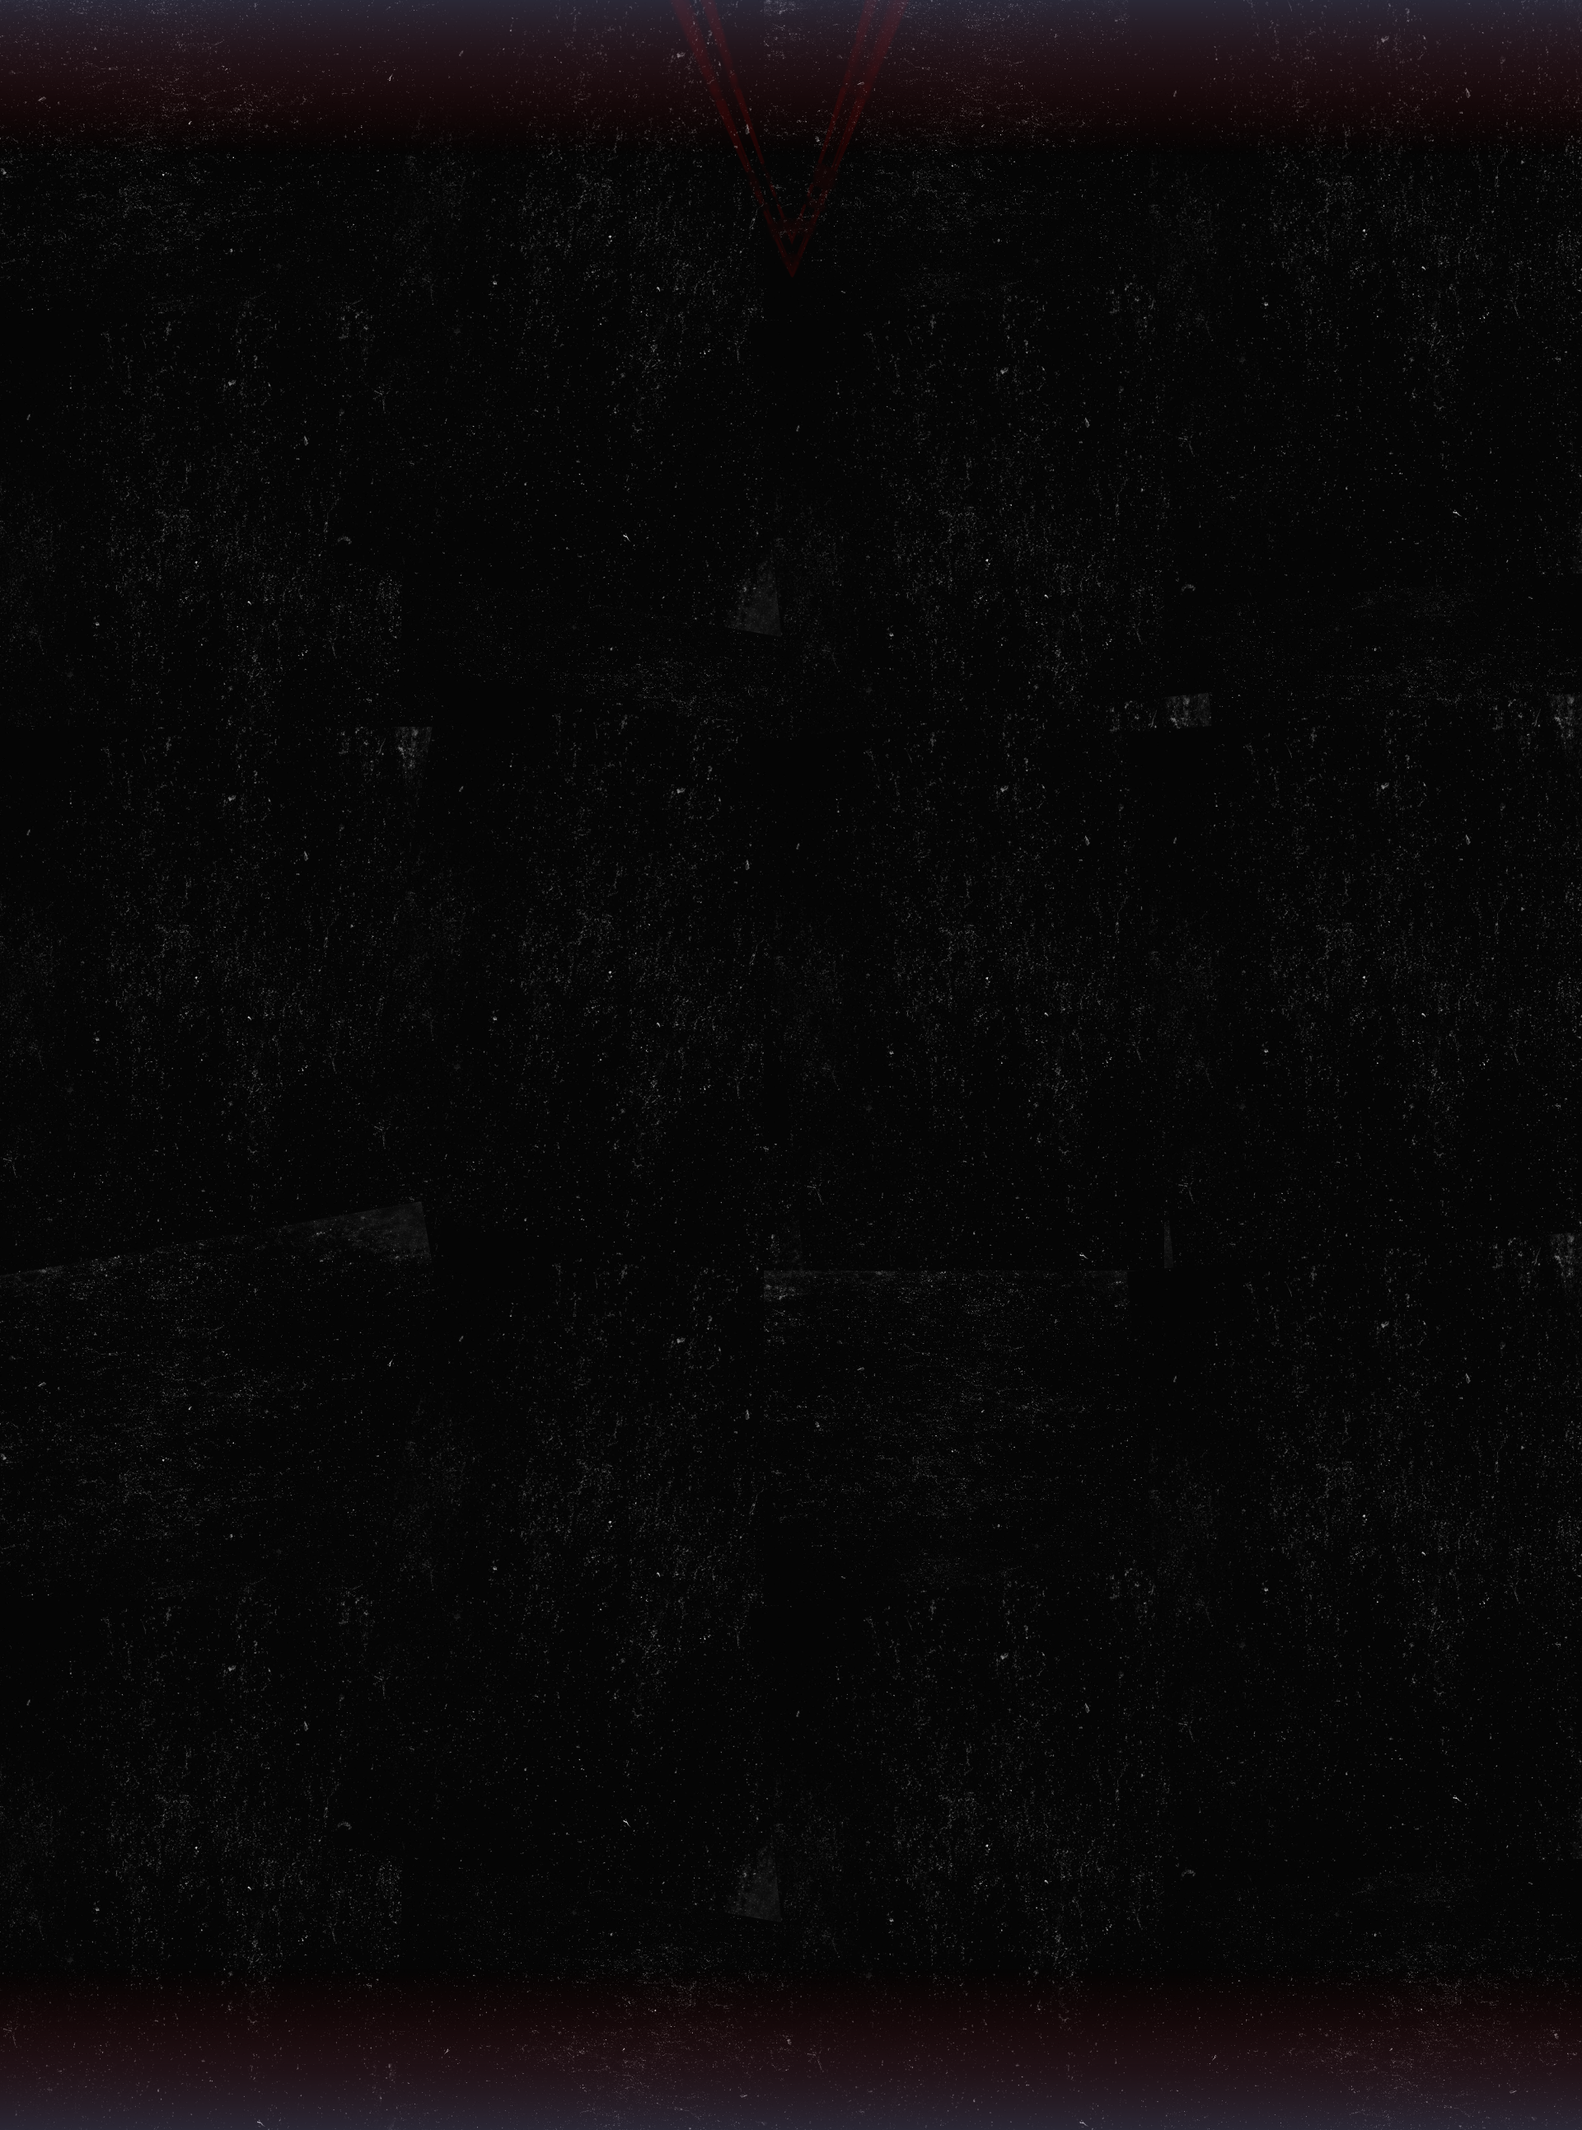
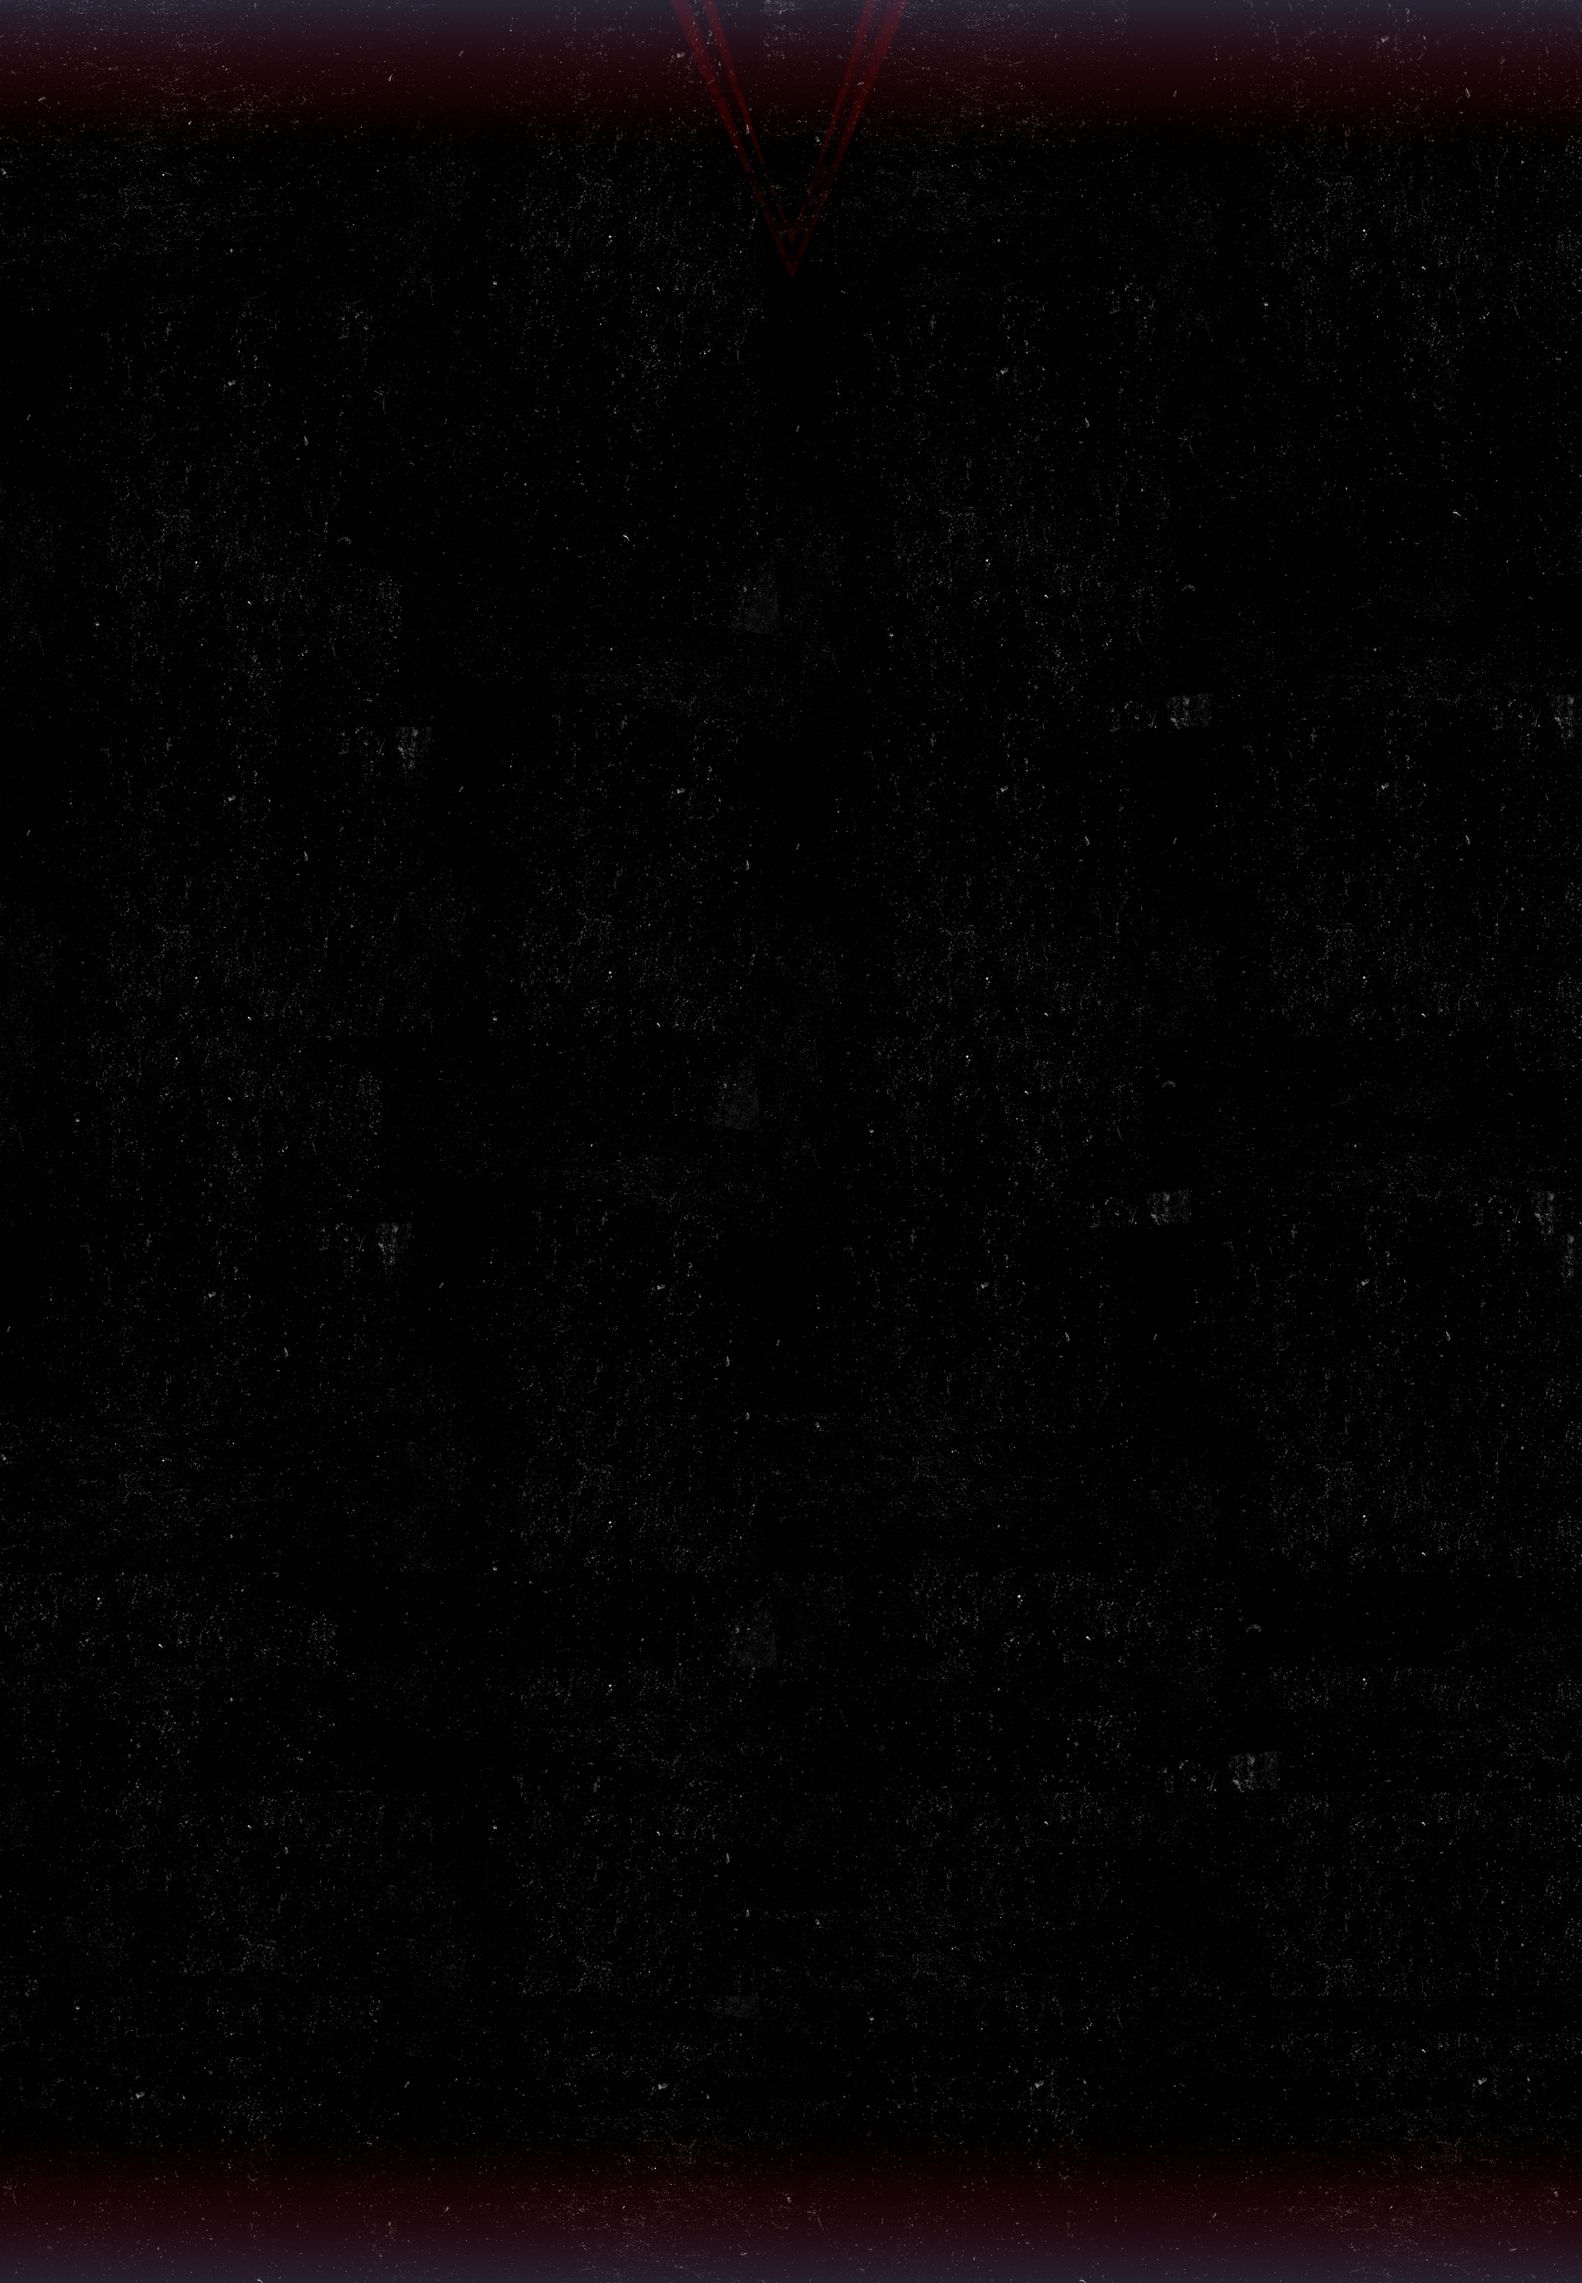
done

diff --git a/balletbornene.html b/balletbornene.html
@@ -4,7 +4,7 @@
     <meta charset="UTF-8">
     <meta http-equiv="X-UA-Compatible" content="IE=edge">
     <meta name="viewport" content="width=device-width, initial-scale=1.0">
-    <link rel="stylesheet" href="nemskat.css">
+    <link rel="stylesheet" href="balletbornene.css">
     <link rel="icon" type="image/png" href="img/logoh.png">
     <style>
         @import url('https://fonts.googleapis.com/css2?family=Bebas+Neue&family=Livvic:wght@100&display=swap');
@@ -19,69 +19,55 @@
     <section class="toptext">
         <img class="blines" src="img/blines.png" alt="Red Lines">
         <img class="largelines"src="img/largelines.png" alt="Red Lines Large">
-        <h1 class="h1top">"nemskat"</h1>
+        <h1 class="h1top">"ballet børnene"</h1>
     </section> 
-    <img class="websitepic"src="img/nemskat.png" alt="website picture" width="300" height="180">
+    <img class="websitepic"src="img/balletbørnene.png" alt="website picture" width="300" height="180">
     <section class="webcontent">
         <a class="linketosite" a href="https://www.facebook.com/MtildetAtildetRtildetTtildetItildetN/" >click to enter site</a>
     </section>
     <section class="textbox">
         <p class="p1">
-            A website/app which me and
-            another guy designed
-            in an innovation competition.
-            <br>
-            We won 2 prices for:
-            <br>
-            <br>
-            1# best prototype
-            <br>
-            2# classmates price for best idea
-        </p>
-        <img class="cline1"src="img/contentline.png" alt="red line">
-        <p class="p2">
             IDEA:
             <br>
             <br>
-            The site is called "NemSkat" which 
-            translates to "EasyTaxes".
-            <br>
-            <br>        
-            The idea was to make an automatic 
-            accounting system on an App for your phone.
-            This app was to help you
-            correct your preliminary income assessment.
+            the site was for a fictional
+            ballet dance school for kids with 
+            ADHD. 
             <br>
             <br>
-            The way to do this was to have an automatic 
-            system driven by an algorithm.
-            This algorithm uses photos of your monthly job payment
-            letters and with this easy obtainable data the app 
-            will help you make sure that you're filling out the 
-            correct data, so you can avoid having to 
-            pay outstanding taxes.
+            Our goal was to create a 
+            site that felt relaxed and
+            gender neautral and was
+            easy to navigate, with big buttons and
+            large headings - clear messages.
+            <br>
+            <br>
+            With the neutral colors we aimed to
+            attract both girls as well as boys for 
+            our dancing classes.
         </p>
-        <img class="cline2"src="img/contentline.png" alt="red line">
-        <p class="p3">
+        <img class="cline1"src="img/contentline.png" alt="red line">
+        <p class="p2">
             PROCESS:
             <br>
             <br>
-            Xd were used to make a wireframe of the website layout.
-            <br>
-            <br>
+            Xd were used to make a wireframes of the website layout
+            for both mobile and pc.
+            <br>           
+            <br>           
             After that we made a moodboard containing the
             colors, fonts and the overall theme and feeling.
-            <br>
-            <br>
-            Xd were then again used to make a mockup of the
-            Mobile App and of the website promoting the app.
-            <br>
-            <br>
+            <br>           
+            <br>            
+            Xd were then again used to make a prototype of the
+            website.
+            <br>           
+            <br>           
             We used design process to have a structured idea
             all the way through the assignment with usability
             tests and experimentations being done frequently.
         </p>
-        <img class="xdpic"src="img/xdns.png" alt="xd process img" width="300" height="230">
+        <img class="xdpic"src="img/xdbb.png" alt="xd process img" width="300" height="230">
     </section>
 
 </body>

diff --git a/hotelsbeyond.html b/hotelsbeyond.html
@@ -1,0 +1,73 @@
+<!DOCTYPE html>
+<html lang="en">
+<head>
+    <meta charset="UTF-8">
+    <meta http-equiv="X-UA-Compatible" content="IE=edge">
+    <meta name="viewport" content="width=device-width, initial-scale=1.0">
+    <link rel="stylesheet" href="hotelsbeyond.css">
+    <link rel="icon" type="image/png" href="img/logoh.png">
+    <style>
+        @import url('https://fonts.googleapis.com/css2?family=Bebas+Neue&family=Livvic:wght@100&display=swap');
+        @import url(https://allfont.net/allfont.css?fonts=agency-fb);
+    </style>
+    <title>Martrox - Web Designs - NemSkat</title>
+</head>
+<body>
+    <a href="index.html">
+        <img class="logo" src="img/logo.png" alt="logo">
+    </a>
+    <section class="toptext">
+        <img class="blines" src="img/blines.png" alt="Red Lines">
+        <img class="largelines"src="img/largelines.png" alt="Red Lines Large">
+        <h1 class="h1top">"hotels beyond"</h1>
+    </section> 
+    <img class="websitepic"src="img/hotelsbeyond.png" alt="website picture" width="300" height="180">
+    <section class="webcontent">
+        <a class="linketosite" a href="https://www.facebook.com/MtildetAtildetRtildetTtildetItildetN/" >click to enter site</a>
+    </section>
+    <section class="textbox">
+        <p class="p1">
+            IDEA:
+            <br>
+            <br>
+            the site was for a fictional
+            space hotel for the upper class
+            citizens
+            <br>    
+            <br>        
+            Our goal was to create a 
+            site that felt elite, mysterious yet simple
+            to navigate.
+            <br>
+            <br>
+            With the style of deco art, we aimed for
+            an old school feel, with a concept of a hotel
+            that looked like something 
+            you would've designed if you could make
+            hotels in space in the 1950's
+        </p>
+    </section>
+
+</body>
+<footer>
+    <img class="ufo" src="img/ufo.png" alt="ufo">
+    <section class="footer">
+        <h3 class="contact">contact</h3>
+        <section class=mailbox>
+        <a href=mailto:martin.olsen2612@gmail.com class="mail">martin.olsen2612@gmail.com
+        </a>
+        </section>
+    </section>
+    <section class="footerlinks">
+        <a href="https://www.instagram.com/martinanxolsen/" target="_blank">
+            <img class="ig" src="img/ig.png" alt="instagram link">
+        </a>
+        <a href="https://www.facebook.com/MtildetAtildetRtildetTtildetItildetN/" target="_blank">
+            <img class="fb" src="img/fb.png" alt="facebook link">
+        </a>
+        <a href="https://www.linkedin.com/in/martin-ruberg-olsen-22b5a821b/" target="_blank">
+            <img class="li" src="img/li.png" alt="linkedin link">
+        </a>
+    </section>
+</footer>
+</html>

diff --git a/hotelsbeyond.css b/hotelsbeyond.css
@@ -1,5 +1,5 @@
 body{
-    background-image: url("img/bgnsm.png");
+    background-image: url("img/bgbbm.png");
     overflow-x: hidden;
 }
 
@@ -29,9 +29,6 @@ h1{
 
 /*-------Content Styling--------*/
 
-h2{
-    font-family: 'Bebas Neue', cursive;
-}
 p{
     font-family: 'Agency FB', arial;
 }
@@ -175,7 +172,7 @@ footer{
 
 @media all and (min-width: 600px) {
     body{
-        background-image: url("img/bgnsl.png");
+        background-image: url("img/bghbl.png");
         background-repeat: no-repeat;
     }
     
@@ -214,7 +211,7 @@ footer{
         height: auto;
     }
     .p1{
-        font-size: 1.7rem;
+        font-size: 1.5rem;
         padding-bottom: 2rem;
     }
     .p2{
@@ -225,9 +222,6 @@ footer{
     .xdpic{
         width: 100%;
         height: auto;
-    }
-    .cline2{
-        padding-bottom: 3rem;
     }
             
 /*-------Text Styling MQ--------*/

diff --git a/webdesigns.html b/webdesigns.html
@@ -5,6 +5,7 @@
     <meta http-equiv="X-UA-Compatible" content="IE=edge">
     <meta name="viewport" content="width=device-width, initial-scale=1.0">
     <link rel="stylesheet" href="webdesigns.css">
+    <link rel="icon" type="image/png" href="img/logoh.png">
     <style>
         @import url('https://fonts.googleapis.com/css2?family=Bebas+Neue&family=Livvic:wght@100&display=swap');
         @import url(https://allfont.net/allfont.css?fonts=agency-fb);
@@ -43,7 +44,7 @@
         <h2 class="ballet"><a href="ballet.html">"ballet børnene"</a></h2>
         <img class="linew" src="img/linev.png" alt="Website Box">
 
-        <h2 class="hotels"><a href="hotels.html">"hotels beyond"</a></h2>
+        <h2 class="hotels"><a href="hotelsbeyond.html">"hotels beyond"</a></h2>
         <img class="linem" src="img/linev.png" alt="Music Box">
     </section>
 </body>

diff --git a/balletbornene.css b/balletbornene.css
@@ -1,5 +1,5 @@
 body{
-    background-image: url("img/bgnsm.png");
+    background-image: url("img/bgbbm.png");
     overflow-x: hidden;
 }
 
@@ -175,7 +175,7 @@ footer{
 
 @media all and (min-width: 600px) {
     body{
-        background-image: url("img/bgnsl.png");
+        background-image: url("img/bgbbl.png");
         background-repeat: no-repeat;
     }
     
@@ -214,7 +214,7 @@ footer{
         height: auto;
     }
     .p1{
-        font-size: 1.7rem;
+        font-size: 1.5rem;
         padding-bottom: 2rem;
     }
     .p2{
@@ -225,9 +225,6 @@ footer{
     .xdpic{
         width: 100%;
         height: auto;
-    }
-    .cline2{
-        padding-bottom: 3rem;
     }
             
 /*-------Text Styling MQ--------*/

diff --git a/videos.html b/videos.html
@@ -5,6 +5,7 @@
     <meta http-equiv="X-UA-Compatible" content="IE=edge">
     <meta name="viewport" content="width=device-width, initial-scale=1.0">
     <link rel="stylesheet" href="videos.css">
+    <link rel="icon" type="image/png" href="img/logoh.png">
     <style>
         @import url('https://fonts.googleapis.com/css2?family=Bebas+Neue&family=Livvic:wght@100&display=swap');
         @import url(https://allfont.net/allfont.css?fonts=agency-fb);
@@ -37,7 +38,6 @@
             <img class="pplogo" src="img/pplogo.png" alt="premiere pro logo">
         </section>
     </section>
-
 </body>
 <footer>
     <img class="ufo" src="img/ufo.png" alt="ufo">

diff --git a/projects.html b/projects.html
@@ -5,6 +5,7 @@
     <meta http-equiv="X-UA-Compatible" content="IE=edge">
     <meta name="viewport" content="width=device-width, initial-scale=1.0">
     <link rel="stylesheet" href="projects.css">
+    <link rel="icon" type="image/png" href="img/logoh.png">
     <style>
         @import url('https://fonts.googleapis.com/css2?family=Bebas+Neue&family=Livvic:wght@100&display=swap');
         @import url(https://allfont.net/allfont.css?fonts=agency-fb);

diff --git a/about.html b/about.html
@@ -5,6 +5,7 @@
     <meta http-equiv="X-UA-Compatible" content="IE=edge">
     <meta name="viewport" content="width=device-width, initial-scale=1.0">
     <link rel="stylesheet" href="about.css">
+    <link rel="icon" type="image/png" href="img/logoh.png">
     <style>
         @import url('https://fonts.googleapis.com/css2?family=Bebas+Neue&family=Livvic:wght@100&display=swap');
         @import url(https://allfont.net/allfont.css?fonts=agency-fb);

diff --git a/index.html b/index.html
@@ -5,6 +5,7 @@
     <meta http-equiv="X-UA-Compatible" content="IE=edge">
     <meta name="viewport" content="width=device-width, initial-scale=1.0">
     <link rel="stylesheet" href="index.css">
+    <link rel="icon" type="image/png" href="img/logoh.png">
     <style>
         @import url('https://fonts.googleapis.com/css2?family=Bebas+Neue&family=Livvic:wght@100&display=swap');
         @import url(https://allfont.net/allfont.css?fonts=agency-fb);

diff --git a/music.html b/music.html
@@ -5,6 +5,7 @@
     <meta http-equiv="X-UA-Compatible" content="IE=edge">
     <meta name="viewport" content="width=device-width, initial-scale=1.0">
     <link rel="stylesheet" href="music.css">
+    <link rel="icon" type="image/png" href="img/logoh.png">
     <style>
         @import url('https://fonts.googleapis.com/css2?family=Bebas+Neue&family=Livvic:wght@100&display=swap');
         @import url(https://allfont.net/allfont.css?fonts=agency-fb);
